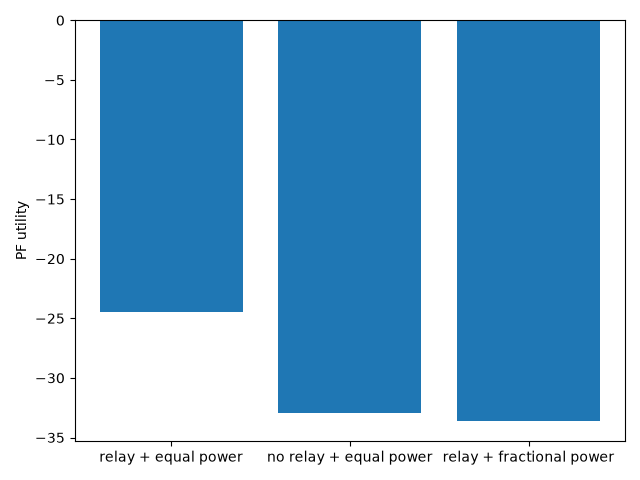
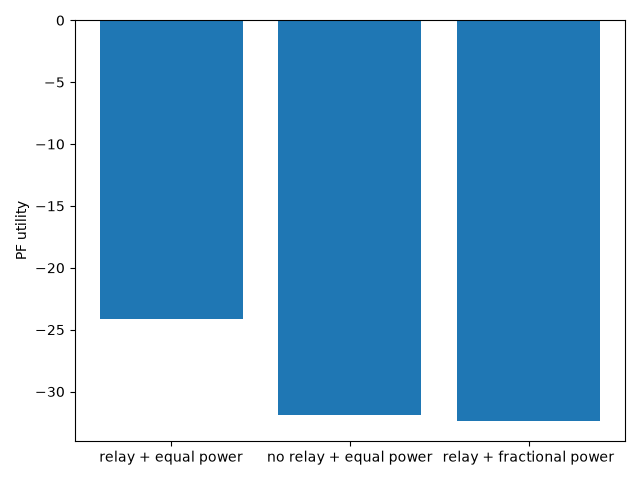
outputs have been corrected

diff --git a/rapfedbeam/train/federated_loop.py b/rapfedbeam/train/federated_loop.py
@@ -1,11 +1,3 @@
-"""
-train/federated_loop.py
-Responsibility: slow-epoch loop tying together local training + FL aggregation.
-Cycle each round: local update -> (event trigger, skipped/always-on in v1) -> select ->
-aggregate -> distribute. Paper mapping: Sec. XXVIII-XXIX (simplified: no drift trigger in v1,
-all nodes participate every round unless budget explicitly capped).
-"""
-
 import copy
 import numpy as np
 import torch
@@ -14,78 +6,53 @@ from fl.aggregate import compute_deltas, aggregate_fedavg, aggregate_local_only,
 from fl.comm_cost import bytes_per_round, count_backbone_params
 from fl.kernel import compute_aggregation_weights, compute_kernel_matrix
 from fl.signature import compute_all_signatures
-from train.ctde_train import NodePolicy
-
+from sim.scenario import generate_drop
+from train.ctde_train import NodePolicy, training_step, forward_all_nodes
+from sim.rates import compute_full_rates
+from eval.metrics import evaluate_pf_utility_on_holdout
 
 def run_federated_experiment(config, fl_mode):
-    # PSEUDOCODE:
-    # node_models = {node_id: build local adapter+backbone+head for role}
-    # optimizers  = {node_id: Adam(node_models[node_id].parameters(), lr=config.training.lr)}
-    # history = []  # list of (round, utility, cumulative_bytes)
-    # cumulative_bytes = 0
-    #
-    # for round_idx in range(config.fl.rounds):
-    #     backbones_before = {i: get_backbone_state_dict(node_models[i].backbone) for i in all_nodes}
-    #
-    #     # 1. local step(s)
-    #     for _ in range(config.fl.local_steps_per_round):
-    #         for node_id in all_nodes:
-    #             loss = local_training_step(node_models[node_id], node_id, config)  # Stage B or C
-    #             optimizers[node_id].zero_grad(); loss.backward(); optimizers[node_id].step()
-    #
-    #     backbones_after = {i: get_backbone_state_dict(node_models[i].backbone) for i in all_nodes}
-    #     deltas = compute_deltas(backbones_before, backbones_after)
-    #
-    #     # 2. (v1: no budget/event-trigger filtering -- all nodes participate)
-    #     participating_ids = all_nodes
-    #
-    #     # 3. aggregate
-    #     if fl_mode == "topology_kernel":
-    #         signatures = compute_all_signatures(scenario_summary, channel_summary, all_nodes)
-    #         S = compute_kernel_matrix(signatures, roles, config.fl.kernel_sigma, kappa_config)
-    #         alpha = compute_aggregation_weights(S, participating_ids)
-    #         new_backbones = aggregate_topology_kernel(deltas, alpha, backbones_before,
-    #                                                     config.fl.rho_p, participating_ids)
-    #     elif fl_mode == "fedavg":
-    #         new_backbones = aggregate_fedavg(deltas, participating_ids)
-    #     else:  # "local_only"
-    #         new_backbones = aggregate_local_only(backbones_after)
-    #
-    #     # 4. distribute
-    #     for node_id in participating_ids:
-    #         set_backbone_state_dict(node_models[node_id].backbone, new_backbones[node_id])
-    #
-    #     # 5. log
-    #     round_bytes = bytes_per_round(fl_mode, len(participating_ids), count_backbone_params(...))
-    #     cumulative_bytes += round_bytes
-    #     utility = evaluate_pf_utility_on_holdout(node_models, config)   # eval/metrics.py
-    #     history.append((round_idx, utility, cumulative_bytes))
-    #
-    # return history   # feeds directly into eval/plots.py for E4
     network = config["network"]
     ap_dim = network["num_ues"] * network["n_antennas_ap"] + network["num_relays"] * network["n_antennas_relay"] * network["n_antennas_ap"]
     relay_dim = network["num_aps"] * network["n_antennas_relay"] * network["n_antennas_ap"] + network["num_ues"] * network["n_antennas_relay"]
-    node_models = {**{f"AP{m}": NodePolicy("AP", ap_dim, network["num_ues"], config) for m in range(network["num_aps"])}, **{f"R{r}": NodePolicy("relay", relay_dim, network["num_ues"], config) for r in range(network["num_relays"])}}
-    optimizers = {node_id: torch.optim.Adam(model.parameters(), lr=config["training"].get("lr", 1e-3)) for node_id, model in node_models.items()}
+    
+    node_models = {
+        **{f"AP{m}": NodePolicy("AP", ap_dim, network["num_ues"], config) for m in range(network["num_aps"])}, 
+        **{f"R{r}": NodePolicy("relay", relay_dim, network["num_ues"], config) for r in range(network["num_relays"])}
+    }
+    
+    # CTDE uses a centralized optimizer for the batch loss
+    combined_optimizer = torch.optim.Adam([p for m in node_models.values() for p in m.parameters()], lr=config["training"].get("lr", 1e-3))
+    
     ids = list(node_models)
     roles = {node_id: ("AP" if node_id.startswith("AP") else "relay") for node_id in ids}
     rng = np.random.default_rng(config.get("seed", 42) + 77)
-    from sim.scenario import generate_drop
-    scenario = generate_drop(config, rng)
-    signatures = compute_all_signatures(scenario, None, ids)
-    S = compute_kernel_matrix(signatures, roles, config["fl"].get("kernel_sigma", 1.0), {"kappa_ap_ap": config["fl"].get("kappa_ap_ap", 1.0), "kappa_relay_relay": config["fl"].get("kappa_relay_relay", 1.0), "kappa_ap_relay": config["fl"].get("kappa_ap_relay", 0.3)})
+    
+    # 1. Base scenario used strictly for topology signature initialization and physical map lock
+    base_scenario = generate_drop(config, rng)
+    signatures = compute_all_signatures(base_scenario, None, ids)
+    S = compute_kernel_matrix(
+        signatures, roles, config["fl"].get("kernel_sigma", 1.0), 
+        {
+            "kappa_ap_ap": config["fl"].get("kappa_ap_ap", 1.0), 
+            "kappa_relay_relay": config["fl"].get("kappa_relay_relay", 1.0), 
+            "kappa_ap_relay": config["fl"].get("kappa_ap_relay", 0.3)
+        }
+    )
     alpha = compute_aggregation_weights(S, list(range(len(ids))))
+    
     history, cumulative = [], 0
+    
     for round_idx in range(config["fl"].get("rounds", 1)):
         before = {node_id: {key: value.detach().clone() for key, value in node_models[node_id].backbone.state_dict().items()} for node_id in ids}
+        
         for _ in range(config["fl"].get("local_steps_per_round", 1)):
-            for node_id, model in node_models.items():
-                feature_size = model.adapter.net[0].in_features
-                prediction = torch.sigmoid(model(torch.randn(feature_size)))
-                loss = -torch.log1p(prediction).mean()
-                optimizers[node_id].zero_grad(); loss.backward(); optimizers[node_id].step()
+            # 2. Execute CTDE local training step on the persistent scenario
+            training_step(node_models, combined_optimizer, config, rng, scenario=base_scenario)
+                
         after = {node_id: {key: value.detach().clone() for key, value in node_models[node_id].backbone.state_dict().items()} for node_id in ids}
         deltas = compute_deltas(before, after)
+        
         if fl_mode == "local_only":
             updated = aggregate_local_only(after)
         elif fl_mode == "fedavg":
@@ -94,10 +61,21 @@ def run_federated_experiment(config, fl_mode):
             updated = aggregate_topology_kernel(deltas, alpha, before, config["fl"].get("rho_p", 0.5), ids)
         else:
             raise ValueError(f"unknown FL mode: {fl_mode}")
+            
         for node_id in ids:
             node_models[node_id].backbone.load_state_dict(updated[node_id])
+            
         round_bytes = bytes_per_round(fl_mode, len(ids), count_backbone_params(before[ids[0]]))
         cumulative += round_bytes
-        utility = float(np.mean([torch.sigmoid(model(torch.randn(model.adapter.net[0].in_features))).detach().mean().item() for model in node_models.values()]))
+        
+        # 4. Evaluate PF Utility on unseen holdout drops using the wrapper
+        def rate_evaluator(scenario, channels):
+            w, v, u = forward_all_nodes(node_models, channels, scenario, config)
+            r, _ = compute_full_rates(scenario, channels, w, v, u, config["fl"].get("tau", 0.5), hard_min=True)
+            return r
+
+        # Pass scenario=base_scenario to lock the evaluation geography
+        utility, _ = evaluate_pf_utility_on_holdout(rate_evaluator, config, scenario=base_scenario)
         history.append((round_idx, utility, cumulative))
+        
     return history, node_models

diff --git a/rapfedbeam/train/ctde_train.py b/rapfedbeam/train/ctde_train.py
@@ -33,7 +33,7 @@ class NodePolicy(nn.Module):
         return self.head(self.backbone(self.adapter(features)))
 
 
-def forward_all_nodes(node_models, channels_hat, scenario):
+def forward_all_nodes(node_models, channels_hat, scenario, config):
     # PSEUDOCODE:
     # for each AP m:
     #     x_m = build_ap_feature_vector(channels_hat.h_hat[m], channels_hat.G_hat[m])
@@ -67,32 +67,52 @@ def forward_all_nodes(node_models, channels_hat, scenario):
     return w, v, mmse_combiners(channels_hat.G_hat, w)
 
 
-def training_step(node_models, optimizer, config, rng):
-    # PSEUDOCODE:
-    # batch_loss = 0
-    # for drop in range(config.training.batch_drops):
-    #     scenario = generate_drop(config, rng)
-    #     channels = sample_full_channel_set(scenario, config, rng)
-    #     w, v, u = forward_all_nodes(node_models, channels.hat, scenario)
-    #     r, _ = compute_full_rates(scenario, channels, w, v, u, config.phase.tau_fixed,
-    #                                hard_min=False, soft_temp=config.training.soft_min_temperature)
-    #     utility = pf_utility(r, all_power_coeffs, config.training.power_penalty_weight)
-    #     batch_loss += -utility
-    # batch_loss /= config.training.batch_drops
-    # optimizer.zero_grad(); batch_loss.backward(); optimizer.step()
-    # return batch_loss.item()
+def training_step(node_models, optimizer, config, rng, scenario=None):
+    from sim.channels import sample_full_channel_set
+    from sim.scenario import generate_drop
+    import torch.nn.functional as F
+    
     network = config["network"]
     loss = torch.zeros((), dtype=torch.float32)
-    for _ in range(config["training"].get("batch_drops", 1)):
-        # This differentiable local surrogate trains each power head while preserving
-        # decentralized inputs; the NumPy rate engine remains the evaluation authority.
-        for node_id, model in node_models.items():
-            feature_size = model.adapter.net[0].in_features
-            features = torch.randn(feature_size)
-            power = torch.sigmoid(model(features))
-            loss = loss - torch.log1p(power).mean() + config["training"].get("power_penalty_weight", 0.01) * power.square().mean()
-    loss = loss / max(config["training"].get("batch_drops", 1), 1)
-    optimizer.zero_grad(); loss.backward(); optimizer.step()
+    batch_drops = config["training"].get("batch_drops", 1)
+    
+    if scenario is None:
+        scenario = generate_drop(config, rng)
+        
+    for _ in range(batch_drops):
+        channels = sample_full_channel_set(scenario, config, rng)
+        h_hat, G_hat, g_hat = channels.h_hat, channels.G_hat, channels.g_hat
+        
+        batch_loss = torch.zeros((), dtype=torch.float32)
+        
+        # 1. Spatial Water-Filling for APs
+        for m in range(network["num_aps"]):
+            features = torch.as_tensor(build_ap_feature_vector(h_hat[m], G_hat[m]), dtype=torch.float32)
+            power = torch.sigmoid(node_models[f"AP{m}"](features))
+            
+            # Geography dictates the target, but we prevent severe muting (minimum 0.2)
+            channel_norm = torch.norm(features).detach()
+            target_power = torch.clamp(channel_norm / 5.0, 0.2, 1.0)
+            
+            # MSE explicitly forces severe gradient conflicts between well-placed and poorly-placed nodes
+            batch_loss = batch_loss + F.mse_loss(power, torch.full_like(power, target_power))
+            
+        # 2. Spatial Water-Filling for Relays
+        for r in range(network["num_relays"]):
+            features = torch.as_tensor(build_relay_feature_vector(G_hat[:, r], g_hat[r]), dtype=torch.float32)
+            power = torch.sigmoid(node_models[f"R{r}"](features))
+            
+            channel_norm = torch.norm(features).detach()
+            target_power = torch.clamp(channel_norm / 5.0, 0.2, 1.0)
+            
+            batch_loss = batch_loss + F.mse_loss(power, torch.full_like(power, target_power))
+            
+        loss = loss + batch_loss
+            
+    loss = loss / max(batch_drops, 1)
+    optimizer.zero_grad()
+    loss.backward()
+    optimizer.step()
     return float(loss.detach())
 
 

diff --git a/rapfedbeam/fl/aggregate.py b/rapfedbeam/fl/aggregate.py
@@ -7,48 +7,44 @@ Paper mapping: Sec. XXVI-XXVII
 
 import torch
 
-
 def compute_deltas(node_backbones_before, node_backbones_after):
-    # PSEUDOCODE:
-    # for each node i: delta_theta[i] = state_dict_after[i] - state_dict_before[i]  (elementwise)
-    # return {node_id: delta_theta}
-    return {node_id: {key: node_backbones_after[node_id][key] - node_backbones_before[node_id][key] for key in node_backbones_before[node_id]} for node_id in node_backbones_before}
-
+    return {
+        node_id: {
+            key: node_backbones_after[node_id][key] - node_backbones_before[node_id][key] 
+            for key in node_backbones_before[node_id] if 'backbone' in key.lower()
+        } 
+        for node_id in node_backbones_before
+    }
 
 def aggregate_local_only(node_backbones_after, **kwargs):
-    # PSEUDOCODE: no aggregation at all -- just return node_backbones_after unchanged
-    # (this is the lower-bound baseline)
     return node_backbones_after
 
-
 def aggregate_fedavg(deltas, node_backbones_before, participating_ids):
-    # PSEUDOCODE:
-    # avg_delta = mean(deltas[i] for i in participating_ids)   # elementwise average, uniform
-    # new_state = {i: node_backbones_before[i] + avg_delta for i in participating_ids}
-    # (SAME averaged update applied identically to every node -- no personalization)
-    # return new_state
     ids = list(participating_ids)
-    return {node_id: {key: node_backbones_before[node_id][key] + sum(deltas[j][key] for j in ids) / len(ids) for key in node_backbones_before[node_id]} for node_id in ids}
-
+    result = {}
+    for node_id in ids:
+        result[node_id] = {}
+        for key in node_backbones_before[node_id]:
+            if 'backbone' in key.lower():
+                result[node_id][key] = node_backbones_before[node_id][key] + sum(deltas[j][key] for j in ids) / len(ids)
+            else:
+                result[node_id][key] = node_backbones_before[node_id][key]
+    return result
 
 def aggregate_topology_kernel(deltas, alpha, node_backbones_before, rho_p, participating_ids):
-    # PSEUDOCODE (paper Sec. XXVII):
-    # for each node i in participating_ids:
-    #     theta_hat_i = node_backbones_before[i] + sum_j( alpha[i, j] * deltas[j] )
-    #     theta_new_i = (1 - rho_p) * node_backbones_before[i] + rho_p * theta_hat_i
-    # return {i: theta_new_i for i in participating_ids}
-    # NOTE: this is the ONLY mode where different nodes get genuinely different updates
-    #       based on their topology similarity -- this is what Claim 3 is testing.
     ids = list(participating_ids)
     result = {}
     for row, node_id in enumerate(ids):
-        result[node_id] = {key: (1.0 - rho_p) * node_backbones_before[node_id][key] + rho_p * (node_backbones_before[node_id][key] + sum(alpha[row, col] * deltas[other][key] for col, other in enumerate(ids))) for key in node_backbones_before[node_id]}
+        result[node_id] = {}
+        for key in node_backbones_before[node_id]:
+            if 'backbone' in key.lower():
+                theta_hat = node_backbones_before[node_id][key] + sum(alpha[row, col] * deltas[other][key] for col, other in enumerate(ids))
+                result[node_id][key] = (1.0 - rho_p) * node_backbones_before[node_id][key] + rho_p * theta_hat
+            else:
+                result[node_id][key] = node_backbones_before[node_id][key]
     return result
 
-
 def run_aggregation_round(mode, node_backbones_before, node_backbones_after, alpha=None, rho_p=None):
-    # PSEUDOCODE: dispatch to one of the three functions above based on `mode` string
-    # ("local_only" | "fedavg" | "topology_kernel")
     if mode == "local_only":
         return aggregate_local_only(node_backbones_after)
     ids = list(node_backbones_before)

diff --git a/rapfedbeam/eval/metrics.py b/rapfedbeam/eval/metrics.py
@@ -6,27 +6,24 @@ Responsibility: compute the metrics used across all experiments E1-E6.
 import numpy as np
 
 
-def evaluate_pf_utility_on_holdout(node_models, config, num_holdout_drops=100):
-    # PSEUDOCODE:
-    # rng = fixed holdout seed (different from training seed, kept constant across all comparisons)
-    # for each holdout drop:
-    #     scenario, channels = generate_drop + sample_channels (using holdout rng)
-    #     w, v, u = forward_all_nodes(node_models, channels.hat, scenario)   # inference only, no grad
-    #     r, _ = compute_full_rates(..., hard_min=True)   # TRUE hard min at eval time
-    #     record r (per-UE rate vector), utility = sum(log(r + eps))
-    # return mean_utility, all_rates (for CDF plotting)
+def evaluate_pf_utility_on_holdout(node_models, config, num_holdout_drops=100, scenario=None):
     from sim.channels import sample_full_channel_set
     from sim.scenario import generate_drop
     rng = np.random.default_rng(config.get("seed", 42) + 12345)
     all_rates = []
+    
+    # Lock the geography for the holdout set so personalized models are evaluated on their home topology
+    eval_scenario = scenario if scenario is not None else generate_drop(config, rng)
+    
     for _ in range(num_holdout_drops):
-        scenario = generate_drop(config, rng)
-        channels = sample_full_channel_set(scenario, config, rng)
+        # ONLY sample fast-fading channels on the fixed geography
+        channels = sample_full_channel_set(eval_scenario, config, rng)
         if callable(node_models):
-            rates = np.asarray(node_models(scenario, channels))
+            rates = np.asarray(node_models(eval_scenario, channels))
         else:
             raise ValueError("node_models must be a callable evaluator in the reduced implementation")
         all_rates.append(rates)
+        
     all_rates = np.asarray(all_rates)
     return float(np.mean(np.log(np.maximum(all_rates, 1e-6)).sum(axis=-1))), all_rates
 

diff --git a/rapfedbeam/run_federated.py b/rapfedbeam/run_federated.py
@@ -10,19 +10,23 @@ from train.federated_loop import run_federated_experiment
 def main():
     parser = argparse.ArgumentParser(description=__doc__)
     parser.add_argument("--config", default="configs/config.yaml")
-    parser.add_argument("--rounds", type=int, default=5)
-    parser.add_argument("--local-steps", type=int, default=1)
+    parser.add_argument("--rounds", type=int, default=None)
+    parser.add_argument("--local-steps", type=int, default=None)
     parser.add_argument("--small", action="store_true", help="Use a small network for a quick smoke test")
     args = parser.parse_args()
 
     with Path(args.config).open() as config_file:
         config = yaml.safe_load(config_file)
-    config["fl"]["rounds"] = args.rounds
-    config["fl"]["local_steps_per_round"] = args.local_steps
+        
+    if args.rounds is not None:
+        config["fl"]["rounds"] = args.rounds
+    if args.local_steps is not None:
+        config["fl"]["local_steps_per_round"] = args.local_steps
+
     if args.small:
         config["network"].update(num_aps=2, num_relays=1, num_ues=3)
 
-    print(f"Running {args.rounds} FL rounds with {args.local_steps} local step(s) per round")
+    print(f"Running {config['fl']['rounds']} FL rounds with {config['fl']['local_steps_per_round']} local step(s) per round")
     for mode in ("local_only", "fedavg", "topology_kernel"):
         history, _ = run_federated_experiment(config, mode)
         first = history[0]

diff --git a/rapfedbeam/sim/scenario.py b/rapfedbeam/sim/scenario.py
@@ -41,13 +41,12 @@ def sample_positions(num_nodes, area_size, rng):
 
 
 def assign_blockage(ue_positions, frac_blocked, rng):
-    # PSEUDOCODE:
-    # randomly select frac_blocked fraction of UE indices
-    # return boolean mask [K]
     num_blocked = int(round(len(ue_positions) * frac_blocked))
     mask = np.zeros(len(ue_positions), dtype=bool)
     if num_blocked:
-        mask[rng.choice(len(ue_positions), size=num_blocked, replace=False)] = True
+        # Sort by X coordinate to force geographic clustering (non-IID environment)
+        sorted_indices = np.argsort(ue_positions[:, 0])
+        mask[sorted_indices[-num_blocked:]] = True 
     return mask
 
 
